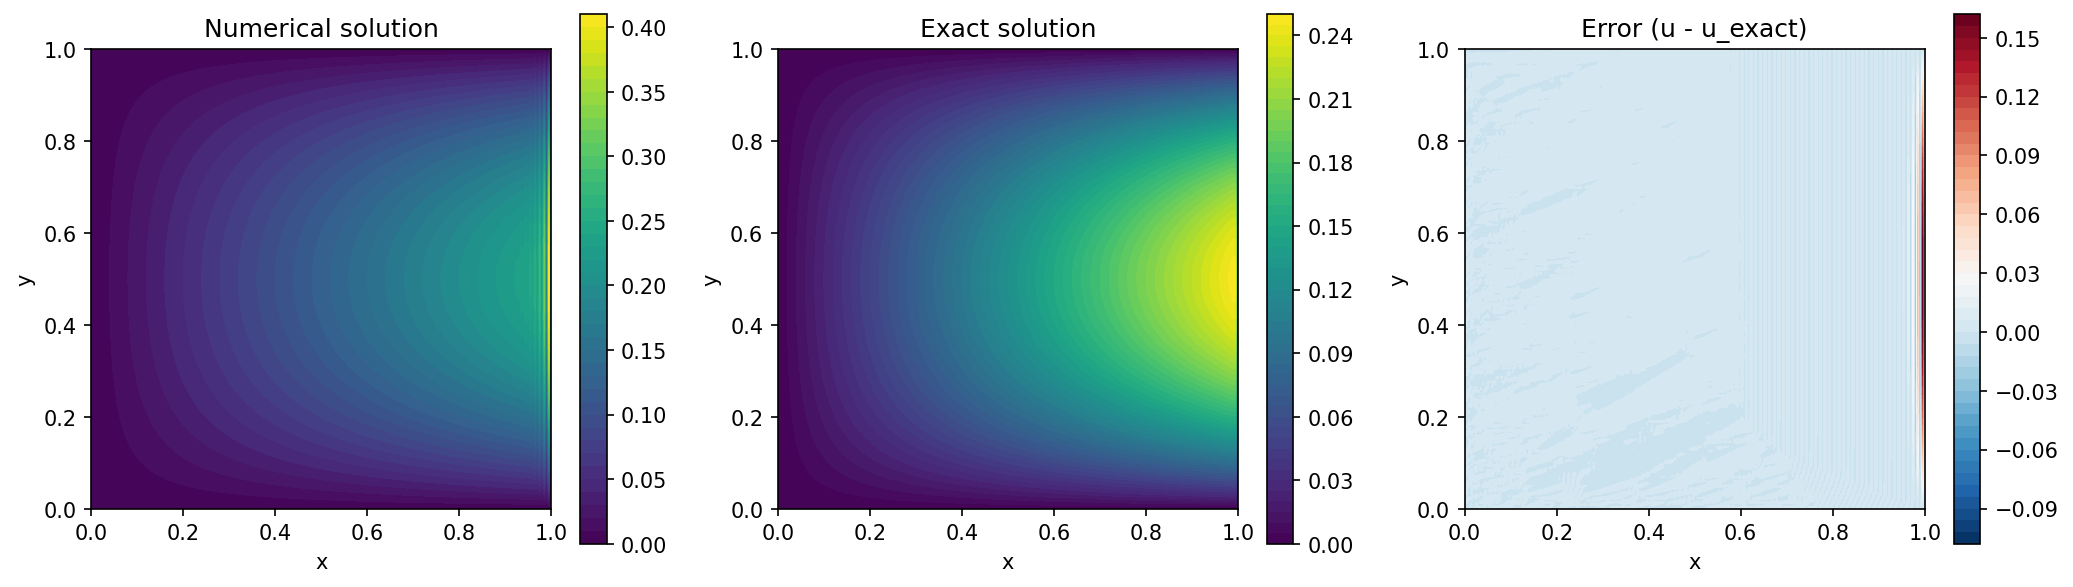
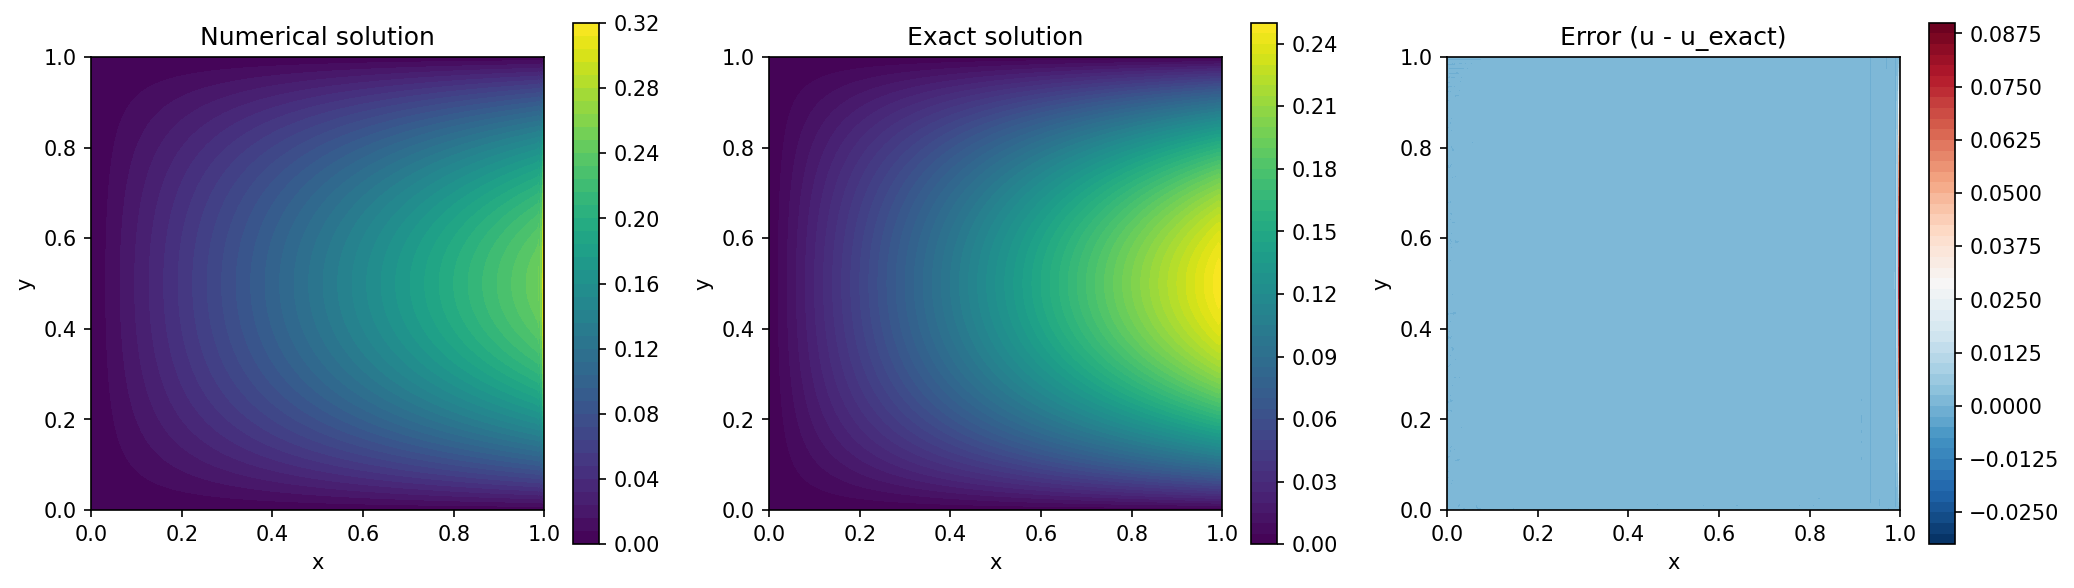
added 3d plots

diff --git a/examples/adv/ex1.py b/examples/adv/ex1.py
@@ -3,11 +3,14 @@ import matplotlib.pyplot as plt
 
 from findiff import BoundaryConditions, FinDiff, Identity, Coefficient, PDE
 
+import matplotlib.pyplot as plt
+from mpl_toolkits.mplot3d import Axes3D
+
 
 eps = 1e-3
 b_x, b_y = 2, 1
 c = 1
-nx, ny = 200, 200
+nx, ny = 400, 400
 x = np.linspace(0.0, 1.0, nx)
 y = np.linspace(0.0, 1.0, ny)
 dx, dy = x[1] - x[0], y[1] - y[0]
@@ -80,10 +83,30 @@ plt.tight_layout()
 plt.savefig("ex1.png", dpi=150, bbox_inches="tight")
 plt.show()
 
+# Create a new figure for the 3D plot
+fig = plt.figure(figsize=(10, 6))
+ax = fig.add_subplot(111, projection='3d')
+
+surf = ax.plot_surface(X, Y, u, cmap='viridis') # linewidth=0, antialiased=False
+
+# Add labels and title
+ax.set_title("Numerical Solution (3D)")
+ax.set_xlabel('x')
+ax.set_ylabel('y')
+ax.set_zlabel('u')
+
+# Add a color bar which maps values to colors
+fig.colorbar(surf, shrink=0.5, aspect=5)
+
+# Show the plot
+plt.tight_layout()
+plt.show()
+
 print("=== Convection-diffusion Ex1 ===")
 print(f"Domain: x in [0,1], y in [0,1]")
 print(f"Grid size: {nx} x {ny}")
 print(f"Coefficients: b = ({b_x}, {b_y}), c = {c}")
 print(f"Relative L2 error: {l2_rel:.3e}")
 print(f"Max error (L-inf): {linf:.3e}")
+print(f"U_min: {np.min(np.min(u, axis = 1), axis = 0)}, U_max: {np.max(np.max(u, axis = 1), axis = 0)}")
 print("Figure saved as ex1.png")

diff --git a/examples/adv/ex2.py b/examples/adv/ex2.py
@@ -3,10 +3,13 @@ import matplotlib.pyplot as plt
 
 from findiff import BoundaryConditions, FinDiff, Identity, Coefficient, PDE
 
+import matplotlib.pyplot as plt
+from mpl_toolkits.mplot3d import Axes3D
+
 eps = 1e-4
 b_x, b_y = np.cos(-np.pi/3), np.sin(-np.pi/3)
 c = 0
-nx, ny = 200, 200
+nx, ny = 400, 400
 x = np.linspace(0.0, 1.0, nx)
 y = np.linspace(0.0, 1.0, ny)
 dx, dy = x[1] - x[0], y[1] - y[0]
@@ -52,8 +55,28 @@ plt.tight_layout()
 plt.savefig("ex2.png", dpi=150, bbox_inches="tight")
 plt.show()
 
+# Create a new figure for the 3D plot
+fig = plt.figure(figsize=(10, 6))
+ax = fig.add_subplot(111, projection='3d')
+
+surf = ax.plot_surface(X, Y, u, cmap='viridis') # linewidth=0, antialiased=False
+
+# Add labels and title
+ax.set_title("Numerical Solution (3D)")
+ax.set_xlabel('x')
+ax.set_ylabel('y')
+ax.set_zlabel('u')
+
+# Add a color bar which maps values to colors
+fig.colorbar(surf, shrink=0.5, aspect=5)
+
+# Show the plot
+plt.tight_layout()
+plt.show()
+
 print("=== Convection-diffusion Ex2 ===")
 print(f"Domain: x in [0,1], y in [0,1]")
 print(f"Grid size: {nx} x {ny}")
 print(f"Coefficients: b = ({b_x}, {b_y}), c = {c}")
+print(f"U_min: {np.min(np.min(u, axis = 1), axis = 0)}, U_max: {np.max(np.max(u, axis = 1), axis = 0)}")
 print("Figure saved as ex2.png")
